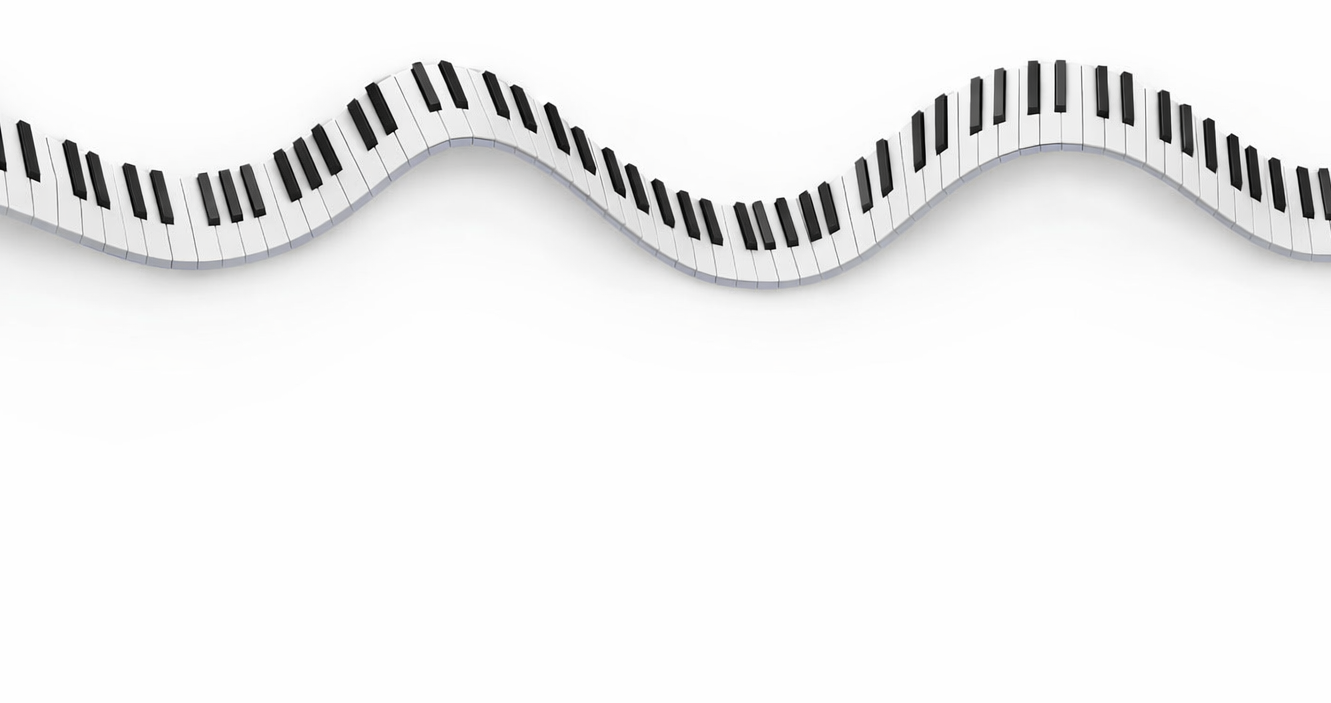
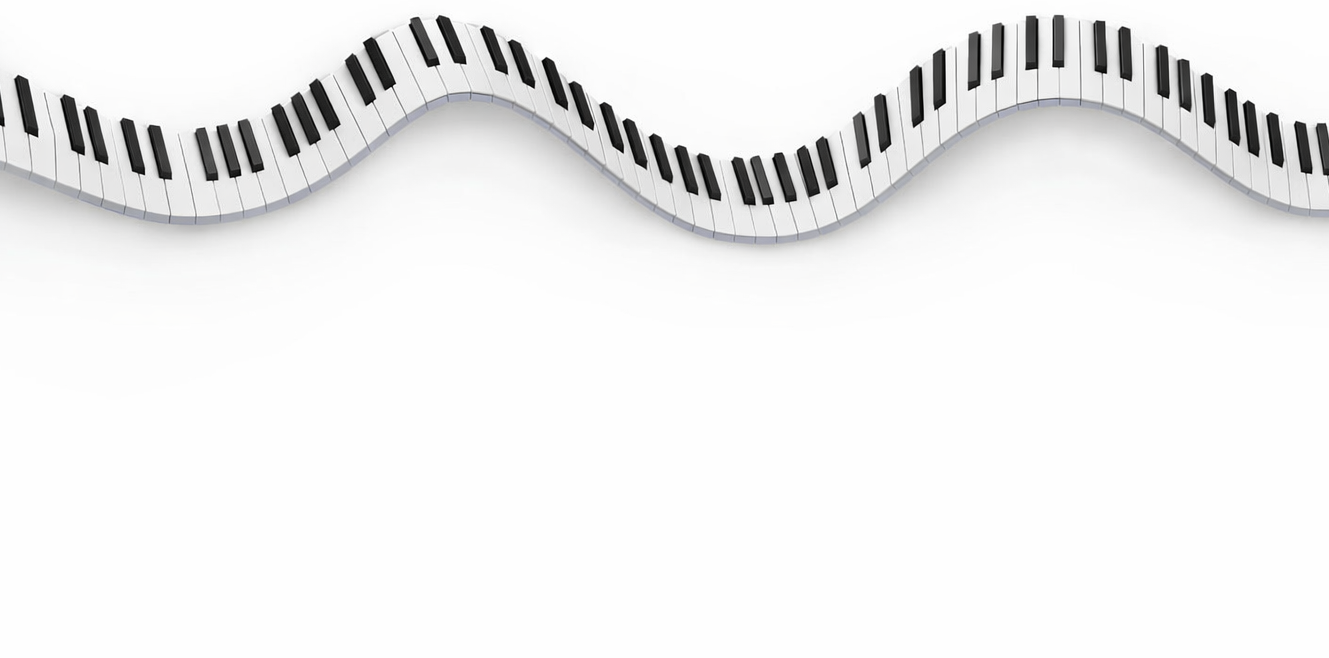
pushed farther plus vision for next game

Changed region(s): [[0.0, 0.0, 1.0, 0.4255]]

diff --git a/pianocodex/src/App.css b/pianocodex/src/App.css
@@ -53,11 +53,11 @@ select {
   width: 100%;
   min-height: 100vh;
   text-align: center;
-  padding: 0 20px 10vh;
+  padding: 0 20px 25vh;
   margin: 0;
   border: none;
   background-image: url('./assets/piano-banner.png');
-  background-size: cover;
+  background-size: 110% auto;
   background-position: center top;
   background-repeat: no-repeat;
   box-shadow: none;
@@ -104,13 +104,14 @@ p {
   width: 270px;
   height: 70px;
   border: 1px solid #0f1113;
-  border-radius: 18px;
+  border-radius: 0;
   background: #0f1113;
   color: #ffffff;
   font-size: 1.2rem;
   font-weight: 800;
   cursor: pointer;
   box-shadow: 0 10px 24px rgba(15, 17, 19, 0.2);
+  clip-path: polygon(0 0, 100% 0, 92% 100%, 8% 100%);
 }
 
 .start-button:hover {
@@ -138,12 +139,13 @@ p {
 
 .secondary {
   border: 1px solid #0f1113;
-  border-radius: 12px;
+  border-radius: 0;
   padding: 12px 20px;
   background: #ffffff;
   color: #0f1113;
   font-weight: 700;
   cursor: pointer;
+  clip-path: polygon(0 0, 100% 0, 92% 100%, 8% 100%);
 }
 
 .secondary:hover {
